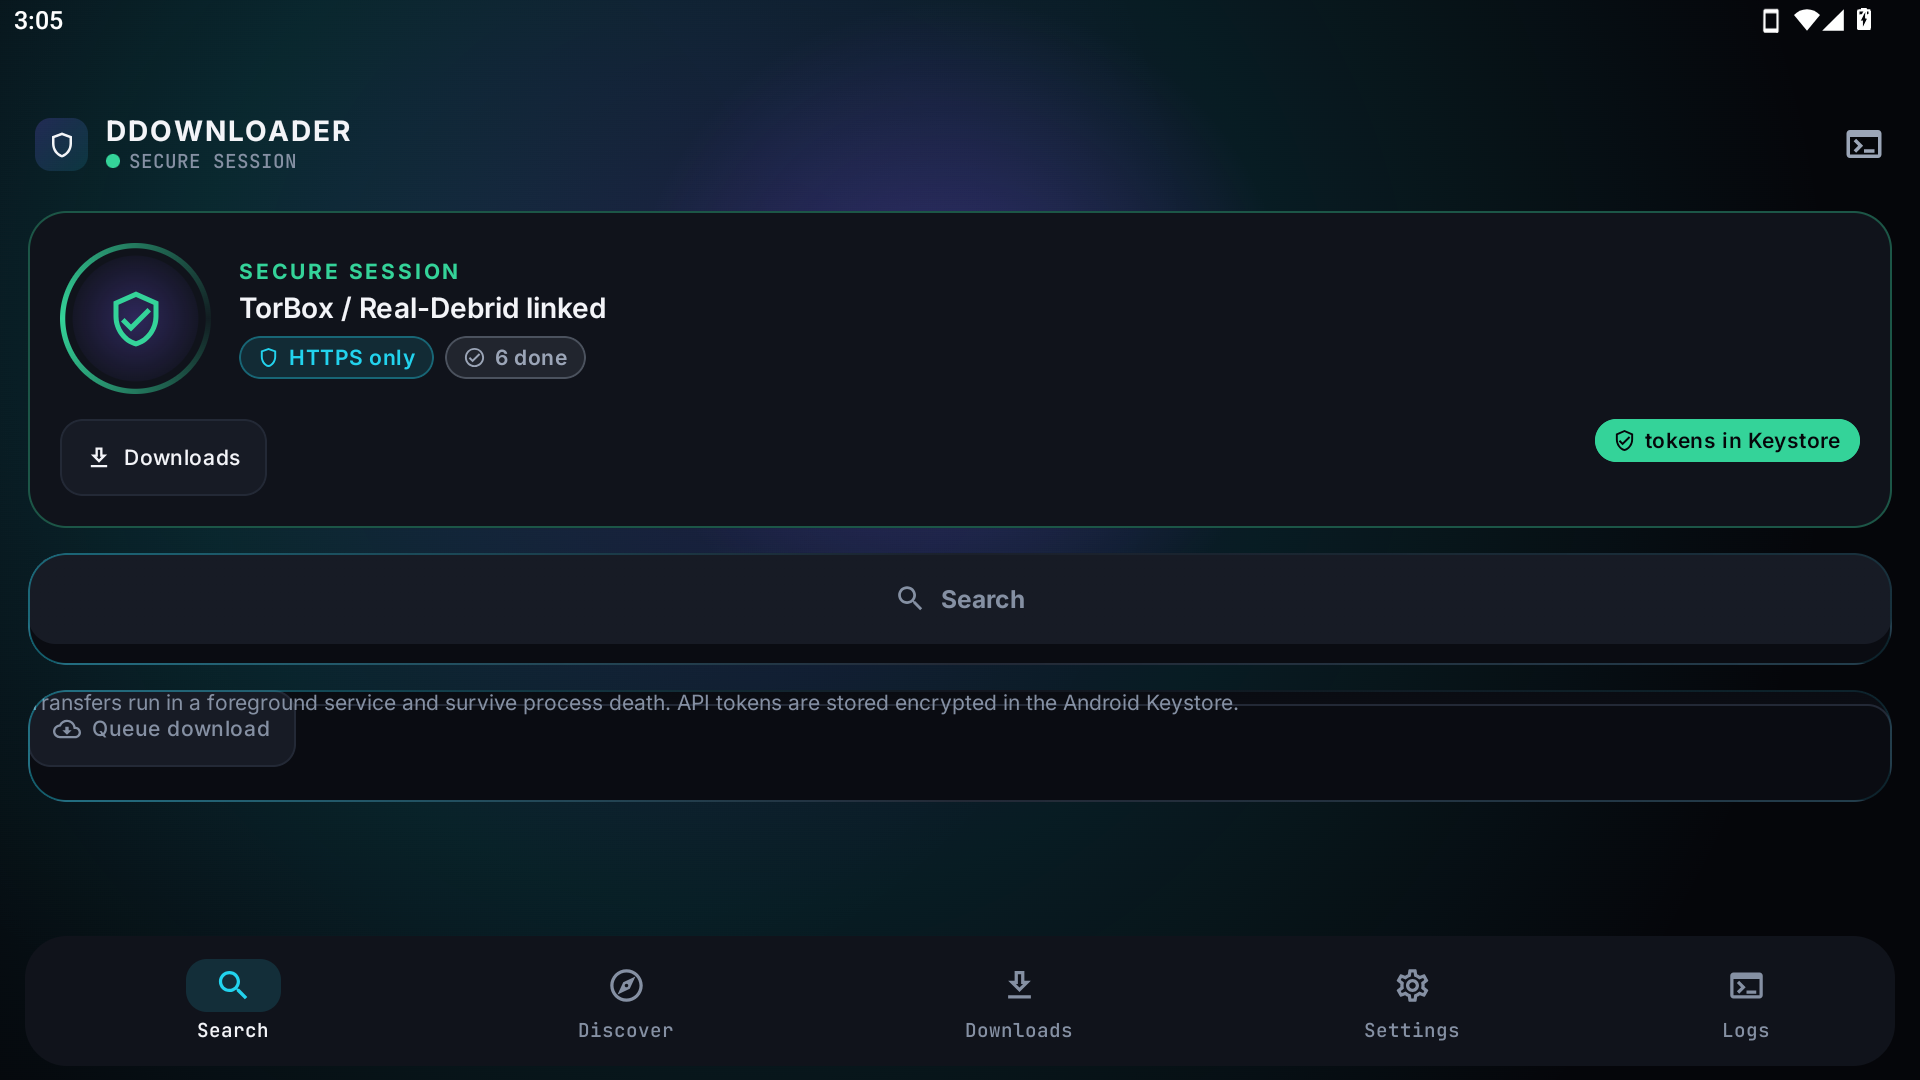
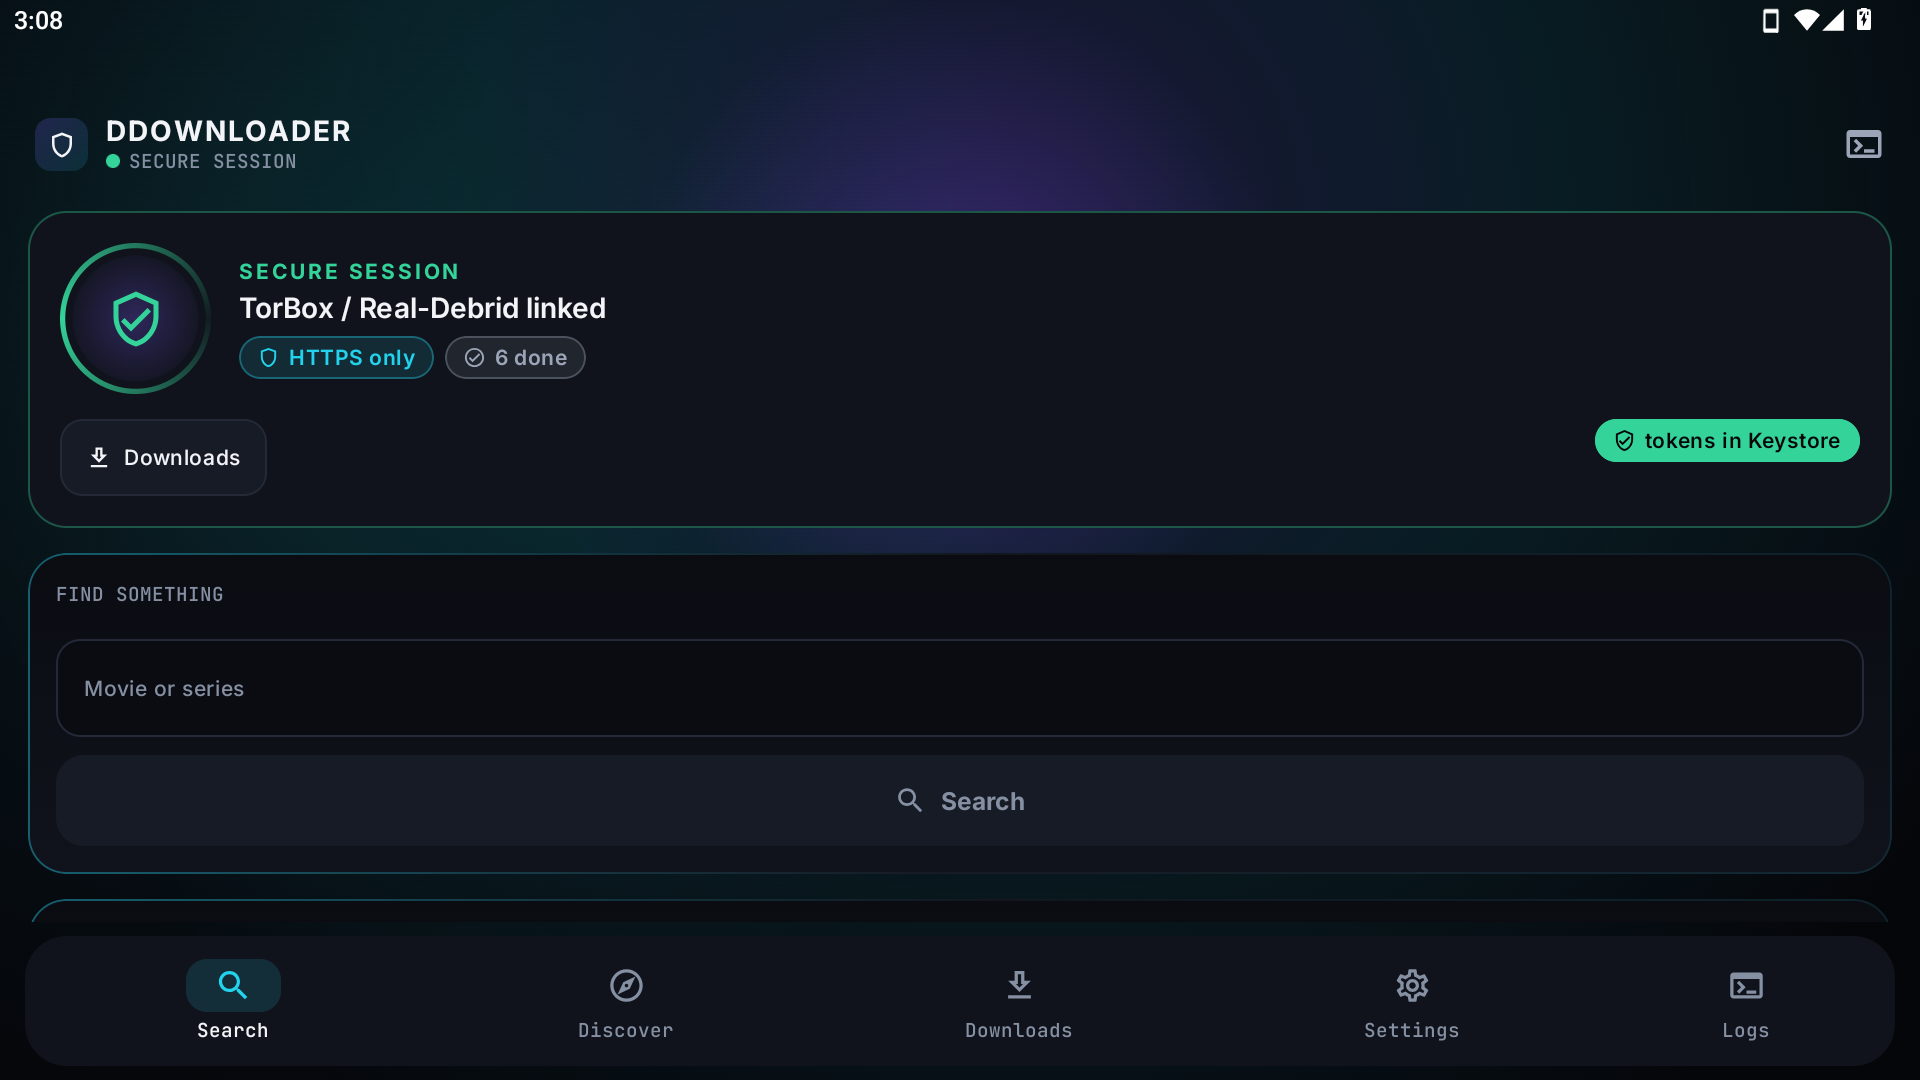
Fix AuroraCard layout contract (1.2.0 regression)
AuroraCard replaced GlassCard but only accepted a plain @Composable content, so the children that
GlassCard used to stack in a padded Column fell out of layout and overlapped - visible immediately
on Settings. AuroraCard now provides ColumnScope plus a contentPadding parameter, restoring the old
contract; Transfers passes 0.dp because it lays out its own padded column.

Verified by screenshot on device: Settings, Transfers, Discover and Search all render correctly.

diff --git a/app/src/main/java/com/ddownloader/android/ui/components/Revamp.kt b/app/src/main/java/com/ddownloader/android/ui/components/Revamp.kt
@@ -53,7 +53,8 @@ import com.ddownloader.android.ui.theme.shimmerBrush
 fun AuroraCard(
     modifier: Modifier = Modifier,
     accent: Color = TdColor.Cyan,
-    content: @Composable () -> Unit,
+    contentPadding: androidx.compose.ui.unit.Dp = 16.dp,
+    content: @Composable androidx.compose.foundation.layout.ColumnScope.() -> Unit,
 ) {
     Box(
         modifier
@@ -77,7 +78,12 @@ fun AuroraCard(
                 RoundedCornerShape(CardRadius),
             ),
     ) {
-        content()
+        // ColumnScope + padding mirror the old GlassCard contract: callers stack children
+        // inside the card, so dropping the scope silently destroyed every replaced screen.
+        androidx.compose.foundation.layout.Column(
+            Modifier.padding(contentPadding),
+            content = content,
+        )
     }
 }
 

diff --git a/app/src/main/java/com/ddownloader/android/ui/screens/DownloadsScreen.kt b/app/src/main/java/com/ddownloader/android/ui/screens/DownloadsScreen.kt
@@ -130,7 +130,7 @@ private fun TransferCard(
     }
     val accent = stateColor(state)
 
-    AuroraCard(accent = accent) {
+    AuroraCard(accent = accent, contentPadding = 0.dp) {
         Column(Modifier.fillMaxWidth().padding(14.dp)) {
             Row(verticalAlignment = Alignment.CenterVertically) {
                 AnimatedRing(percent = percent, accent = accent)

diff --git a/CHANGELOG.md b/CHANGELOG.md
@@ -7,6 +7,16 @@ GitHub Release notes by `RELEASING.md`.
 
 ## [Unreleased]
 
+## [1.2.1] - 2026-10-26
+
+### Fixed
+- **Settings (and every other migrated screen) rendered broken in 1.2.0**: `AuroraCard` replaced
+  `GlassCard` but did not provide the `ColumnScope` + 16 dp padding that `GlassCard` had, so its
+  children fell out of layout and overlapped. `AuroraCard` now takes a `contentPadding` and hosts a
+  `Column`, restoring the old contract; Transfers passes `contentPadding = 0.dp` because it lays
+  out its own padded column. Screenshot-verified on device.
+
+
 ## [1.2.0] - 2026-10-26
 
 ### Changed — visual system revamp
